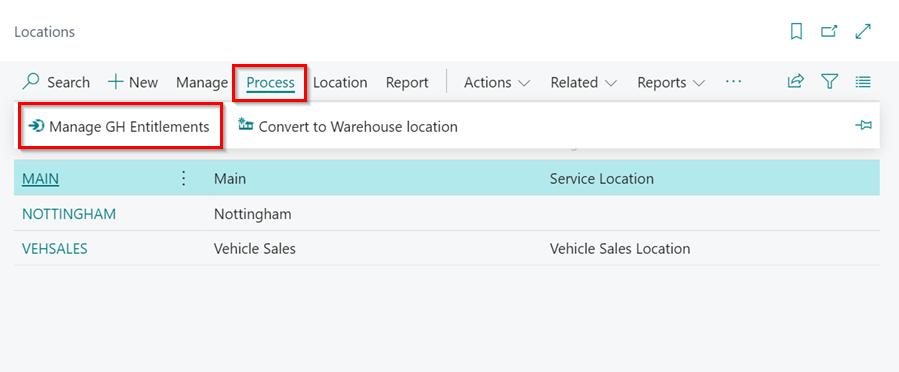
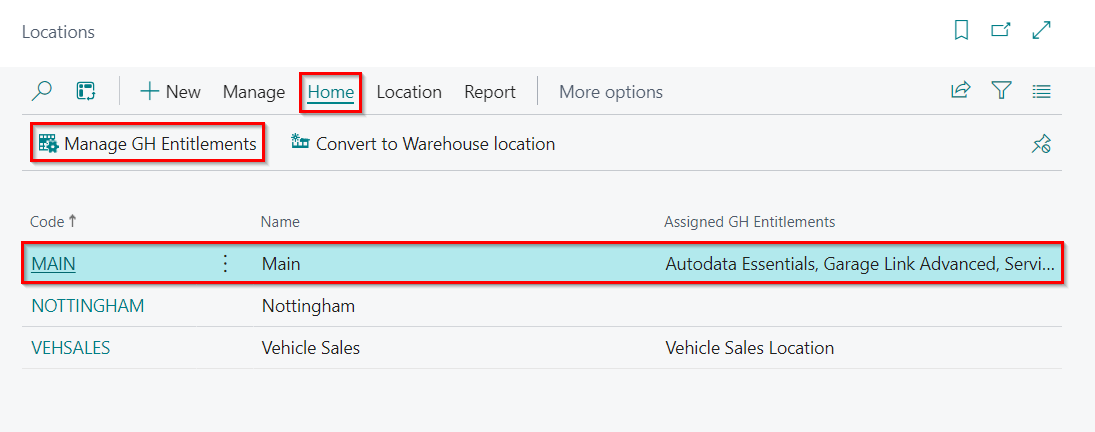
Manage GH Entitlements

diff --git a/docs/garagehive-gh-entitlements.md b/docs/garagehive-gh-entitlements.md
@@ -41,7 +41,7 @@ To assign GH Entitlements to locations in your system, follow these steps if you
 
    ![](media/garagehive-gh-entitlement-location1.png)
 
-2. Choose the desired location to manage the GH Entitlements, then click on **Process**, followed by **Manage GH Entitlements** in the menu bar.
+2. Choose the desired location to manage the GH Entitlements, then click on **Home**, followed by **Manage GH Entitlements** in the menu bar.
 
    ![](media/garagehive-gh-entitlement-location2.png)
 
